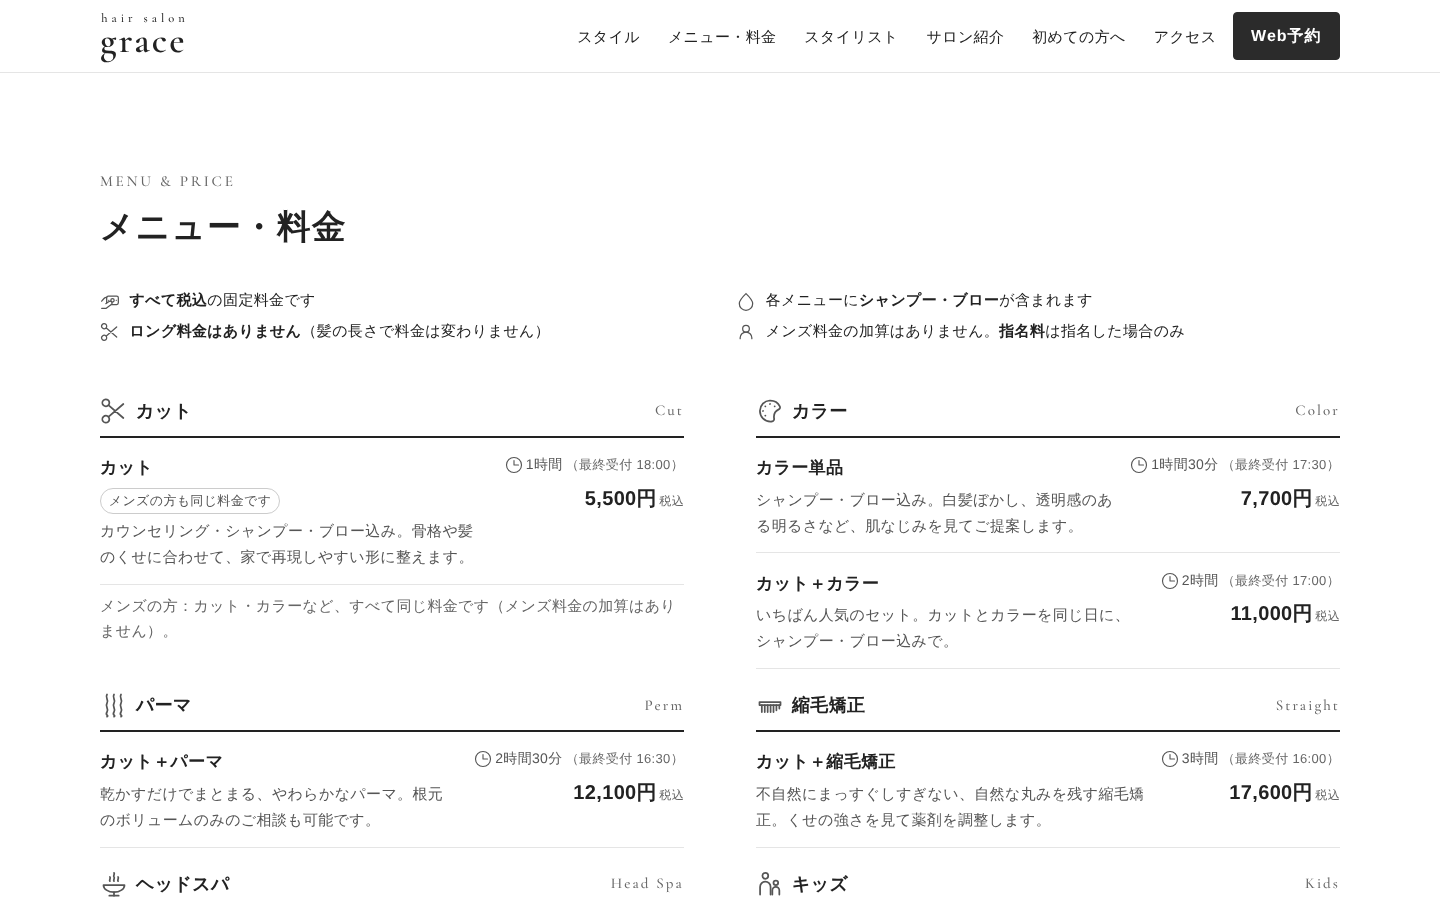
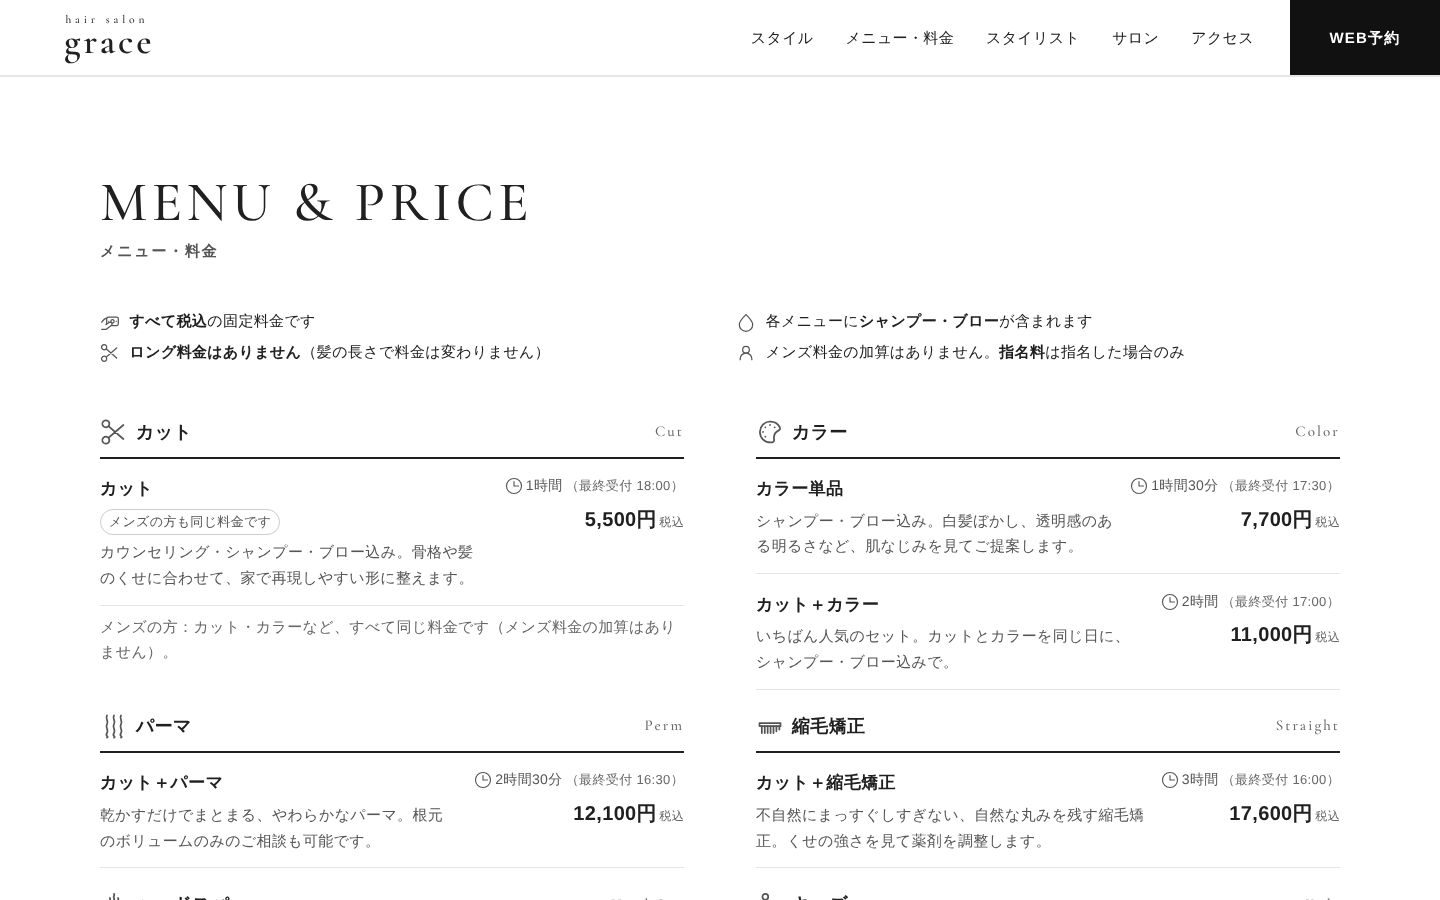
販促用スクリーンショットをモデル写真主体のデザインで撮り直し
Claude-Session: https://claude.ai/code/session_01U6BrpBVGjCZbtm2Y6rXKjn

diff --git a/docs/promo/README.md b/docs/promo/README.md
@@ -6,24 +6,22 @@
 
 | ファイル | 内容 |
 |---|---|
-| `01-pc-firstview.png` | PC（1440×900）のファーストビュー：ヘアスタイル写真が約64% |
-| `02-sp390-firstview.png` | スマホ（390×844）のファーストビュー：写真 → コピー → 予約導線 |
-| `03-sp375-firstview.png` | スマホ（375×667）のファーストビュー：スクロール前に写真・コピー・ボタン |
-| `04-pc-pickup.png` / `10-sp-pickup.png` | ピックアップスタイル「なりたい髪を、見つける。」 |
-| `05-pc-cut-color-care.png` | カット・カラー・ケア（それぞれ写真付き） |
-| `06-pc-menu.png` | メニュー・料金表（白基調の一覧） |
-| `07-pc-simulator.png` | 料金シミュレーター：カット＋カラー＋トリートメント＋指名 → 14,300円／約2時間30分 |
-| `11-sp-simulator.png` | 料金シミュレーター（スマホ）：13,200円／約2時間30分 |
-| `08-pc-stylist.png` | スタイリスト紹介と指名予約ボタン |
-| `09-pc-gallery.png` | スタイルギャラリー（長さ・雰囲気の絞り込み） |
+| `01-pc-firstview.png` | PC（1440×900）：画面いっぱいのモデル写真に hair salon / grace / 髪から、私らしく。 |
+| `02-sp390-firstview.png` / `03-sp375-firstview.png` | スマホ（390×844／375×667）：スマホ用の構図のモデル写真とロゴ |
+| `04-pc-hair-catalog.png` / `10-sp-hair-catalog.png` | HAIR CATALOG（大1＋小4、カテゴリラベル） |
+| `09-pc-style-list.png` | カテゴリで絞り込めるスタイル一覧 |
+| `05-pc-pickup-style.png` | PICK UP STYLE（3点の仕上がり写真と紹介） |
+| `06-pc-menu.png` | MENU & PRICE（白地・細い区切り線の料金表） |
+| `07-pc-simulator.png` / `11-sp-simulator.png` | 料金シミュレーター（14,300円／13,200円・約2時間30分） |
+| `08-pc-stylist.png` | STYLIST（イニシャル・得意なスタイル・指名料・予約ボタン） |
 | `12-sp-reserve-nomination.png` | 指名を引き継いだ予約画面（スマホ） |
 | `13-pc-admin.png` / `14-sp-admin.png` | 店側の予約管理（PC：スタッフ別タイムライン／スマホ：一覧） |
 
-※画面内の店舗・スタッフ・予約はすべて架空、写真は素材サイトのスタイルイメージです。
+※画面内の店舗・スタッフ・予約はすべて架空、写真は素材サイトのスタイルイメージです（モデルはスタッフ本人ではありません）。
 
-## 制作見本の紹介文（233文字）
+## 制作見本の紹介文（246文字）
 
-白を基調に、ヘアスタイル写真を主役にした美容室ホームページの制作見本です。メニューを選ぶだけで、税込の合計金額と所要時間がその場で分かる「料金シミュレーター」を搭載。カット＋カラーなどのセットと追加メニューを選ぶ方式なので、料金の誤解が起きにくくなります。スタッフ紹介では得意なスタイルや接客で大切にしていることを伝え、気になる担当者をそのまま指名して予約へ。空いている時間だけが表示されるため、スマホでも迷わず予約まで進めます。お店側の予約管理画面も体験できます。
+画面いっぱいのモデル写真とヘアカタログで、髪型・髪色の魅力を伝える美容室ホームページの制作見本です。メニューを選ぶだけで、税込の合計金額と所要時間がその場で分かる「料金シミュレーター」を搭載。カット＋カラーなどのセットと追加メニューを選ぶ方式なので、料金の誤解が起きにくくなります。スタッフ紹介では得意なスタイルや接客で大切にしていることを伝え、気になる担当者をそのまま指名して予約へ。空いている時間だけが表示されるため、スマホでも迷わず予約まで進めます。お店側の予約管理画面も体験できます。
 
 ## オーナー様向けの特徴（3項目）
 
